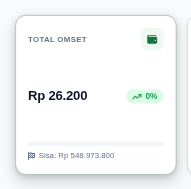
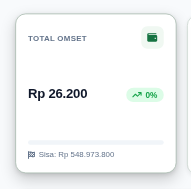
Add a subtle two-pixel widget hover lift with reduced motion support

diff --git a/css.html b/css.html
@@ -2899,12 +2899,12 @@
   .sidebar .quote-icon { color: #24804c; }
   .sidebar .quote-text { color: #465d4e; }
   .sidebar .version-tag { color: #64776b; }
-  /* Widget edges: stronger contrast without changing dimensions or position. */
+  /* Widget edges and subtle hover lift; dimensions and document flow remain unchanged. */
   :is(.kpi-card, .chart-card, .table-card, .attendance-card-widget,
       .form-container-card, .filter-bar-card, .file-card, .sales-profile-card, .att-card) {
     border-color: #c9d5cd;
     box-shadow: 0 2px 6px rgba(0, 0, 0, .07);
-    transition: border-color .18s ease, box-shadow .18s ease;
+    transition: border-color .18s ease, box-shadow .18s ease, transform .18s ease;
   }
   :is(.kpi-card, .chart-card, .table-card, .attendance-card-widget,
       .form-container-card, .filter-bar-card, .file-card, .sales-profile-card, .att-card):hover {
@@ -2913,6 +2913,7 @@
   @media (hover: hover) and (pointer: fine) {
     :is(.kpi-card, .chart-card, .table-card, .attendance-card-widget,
         .form-container-card, .filter-bar-card, .file-card, .sales-profile-card, .att-card):hover {
+      transform: translateY(-2px);
       border-color: #a6b8ac;
       box-shadow: 0 8px 20px rgba(0, 0, 0, .18), 0 2px 6px rgba(0, 0, 0, .10);
     }
@@ -2921,6 +2922,15 @@
     :is(.kpi-card, .chart-card, .table-card, .attendance-card-widget,
         .form-container-card, .filter-bar-card, .file-card, .sales-profile-card, .att-card):hover {
       box-shadow: 0 2px 6px rgba(0, 0, 0, .07);
+    }
+  }
+  @media (prefers-reduced-motion: reduce) {
+    :is(.kpi-card, .chart-card, .table-card, .attendance-card-widget,
+        .form-container-card, .filter-bar-card, .file-card, .sales-profile-card, .att-card),
+    :is(.kpi-card, .chart-card, .table-card, .attendance-card-widget,
+        .form-container-card, .filter-bar-card, .file-card, .sales-profile-card, .att-card):hover {
+      transform: none;
+      transition: none;
     }
   }
 </style>

diff --git a/CATATAN-LANJUT.md b/CATATAN-LANJUT.md
@@ -1,5 +1,11 @@
 # Catatan melanjutkan proyek KCH Team Analytics
 
+### Gerakan hover widget 2px — 18 November 2026 WIB
+
+- Pengguna meminta widget naik sedikit saat kursor diarahkan. Hanya css.html diubah: translateY(-2px) dengan transisi180ms pada pointerfine yang mendukunghover; shadowtegas sebelumnya tetap. Dimensi dan aliranlayout tetap, tanpa ubahteks/isi/warna/JS/backend.
+- Tesbrowser membuktikan naik tepat2px tanpa gerak horizontal atau perubahanukuran. Pada touchscreen dan preferensi reducedmotion widget tetapdiam. Pemeriksaan20view, header/modal desktop-HP, grafik dan dataset lulus. Screenshothover diperbarui.
+- Pasang css.html lengkap dari tautanGitHubproduction, Simpan→Versibaru deploymentProduction yangsama→refresh. TanpaA3/reset/saldoawal. Google belum diubah agen.
+
 ### Tepi widget dan bayangan hover — 18 November 2026 WIB
 
 - Pengguna meminta percobaan tepi widget lebih jelas dan bayangan hover agak lebih hitam. Hanya css.html ditambah24baris untuk kartu KPI/grafik/tabel/form/filter/absensi/dokumen/profil; border berwarna#c9d5cd, bayangan dasar ringan, hover hitam18%+10% dan border#a6b8ac. Ketebalan/geometri border dipertahankan agar isi dan layout tidak bergeser; tampilan garis dibuat lebih tegas lewat kontras.
